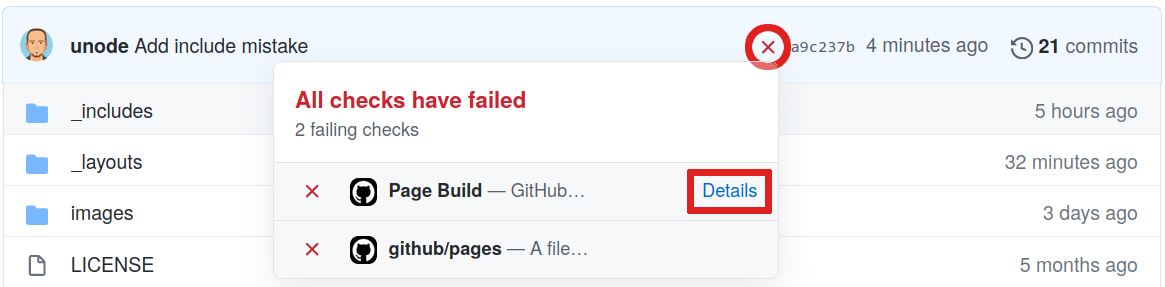
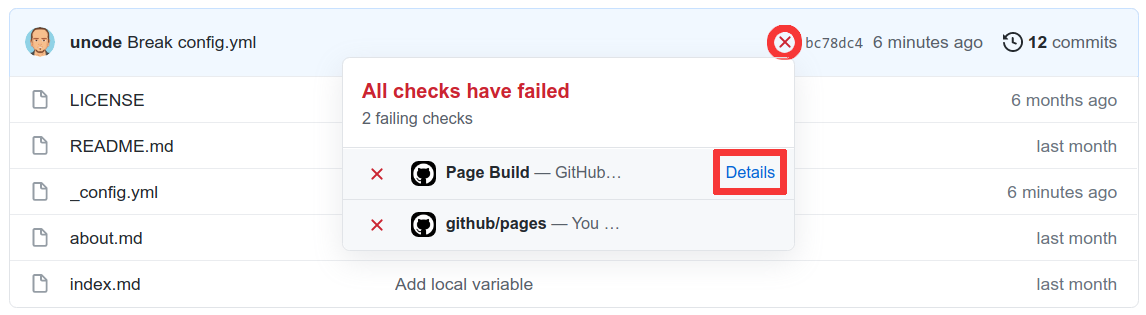
Relocate 'When things go wrong' and make it fail with a _config typo

diff --git a/episodes/starting-jekyll.md b/episodes/starting-jekyll.md
@@ -165,6 +165,84 @@ Let's make use of global parameters in our pages.
 > a single place (even if you only use them once). In combination with Jekyll layouts/templates (to be covered in the next episode) they are a great way of creating reusable markup snippets that can be repeated on multiple or even on every page of your website. Reuse helps you reduce the amount of code you have to write.
 {: .callout}
 
+## When things go wrong
+
+So far we have seen how to successfully use Jekyll to produce a website.
+There are however some situations where Jekyll may fail to do so
+either due to a typo or missing information.
+
+> ## Exercise: Troubleshooting Jekyll
+>
+> This exercise will help you recognise how common mistakes look like
+> when working with these elements of a Jekyll website.
+>
+> Edit your `_config.yml` file and omit a closing quote `"` in one of the variables.
+>
+> > ## Solution
+> >
+> > For instance, a missing closing quote `"` in the `twitter` variable.
+> > ~~~
+> > title: "Building Websites in GitHub"
+> > description: "This research project develops training materials for reseachers wanting to learn to build project
+> > websites in GitHub with GitHub Pages."
+> > email: "team@carpentries.org"
+> > twitter: "https://twitter.com/thecarpentries
+> > ~~~
+> > {: .language-yaml}
+> >
+> > If you navigate your GitHub repository you would be able to see something break in `about.md` where we use `{% raw %}{{ site.twitter }}{% endraw %}` however,
+> > contrary to what we saw before with invalid Markdown,
+> > Jekyll will refuse to build the website and produce an error message.
+> >
+> > We will see after this where to find the error message and identify what caused them.
+> {: .solution }
+{: .challenge }
+
+If you were keeping an eye on the GitHub repository page until now, you may have noticed 
+a yellow circle visible when the website is still being processed and a green check mark (✓) when successful.
+You may have also noticed that in the same location there is now a red cross next to the commit message (❌).
+
+This indicates that something went wrong with our Jekyll build process.
+
+![Jekyll pending/successful build](../fig/includes_fail_pending_successful.png)
+
+You may also find an email from GitHub in your inbox with details about the error.
+But lets look at our repository again.
+If we click the red cross next to the commit message (❌) a little pop-up will appear with additional information.
+
+![Jekyll failed to build](../fig/includes_build_error.png)
+
+Visiting the page behind the **Details** link will give us the information we were missing.
+
+![Jekyll failed to build detail](../fig/includes_build_error_detail.png)
+
+From this page we can see that what caused the failure affected line 5 of the `_config.yml` file.
+This matches the line where we deleted the `"`.
+Since this typo prevents Jekyll from building the page, the process cannot continue.
+
+> ## Failure will not remove your website
+>
+> Given the failure you may be wondering what happened to the website?
+> If you visit the address you will find that the website is still be available.
+>
+> GitHub will keep your previous version online until the error is fixed
+> and a new build is completed successfully.
+{: .callout }
+
+Lets go ahead and fix your intentional typo and re-add the missing `"`:
+
+~~~
+title: "Building Websites in GitHub"
+description: "This research project develops training materials for reseachers wanting to learn to build project
+websites in GitHub with GitHub Pages."
+email: "team@carpentries.org"
+twitter: "https://twitter.com/thecarpentries"
+~~~
+{: .language-yaml}
+
+After a few seconds we should see a green checkmark again and our website will be updated.
+
+
 ## Local Parameters
 
 In addition to global (site-wide) parameters available via the `site` global variable, Jekyll makes _local_ (page-specific) information available to you via the `page` variable.

diff --git a/episodes/includes.md b/episodes/includes.md
@@ -288,69 +288,5 @@ We will see another example of this shortly.
 > of all the relevant links across your site.
 {: .callout }
 
-## When things go wrong
-
-So far we have seen how to successfully use Jekyll to produce a website.
-There are however some situations where Jekyll may fail to do so
-either due to a typo or missing information.
-
-> ## Exercise: Troubleshooting Revisited I
->
-> This exercise will help you recognise how common mistakes look like
-> when working with these elements of a Jekyll website.
->
-> Edit your `index.md` file and `include` the (non existing) file `mistake.md`.
->
-> > ## Solution
-> >
-> > ~~~
-> > {% raw %}{% include mistake.md %}{% endraw %}
-> > ~~~
-> > {: .language-markdown }
-> >
-> > If you navigate your GitHub repository you will be able to preview the change to `index.md` but,
-> > contrary to what we saw before with invalid Markdown,
-> > Jekyll will refuse to build the website and produce an error message.
-> >
-> > We will see after this where to find the error message and identify what caused them.
-> {: .solution }
-{: .challenge }
-
-If you were keeping an eye on the GitHub repository page until now, you may have noticed 
-a yellow circle visible when the website is still being processed and a green check mark (✓) when successful.
-You may have also noticed that in the same location there is now a red cross next to the commit message (❌).
-
-This indicates that something went wrong with our Jekyll build process.
-
-![Jekyll pending/successful build](../fig/includes_fail_pending_successful.png)
-
-You may also find an email from GitHub in your inbox with details about the error.
-But lets look at our repository again.
-If we click the red cross next to the commit message (❌) a little pop-up will appear with additional information.
-
-![Jekyll failed to build](../fig/includes_build_error.png)
-
-Visiting the page behind the **Details** link will give us the information we were missing.
-
-![Jekyll failed to build detail](../fig/includes_build_error_detail.png)
-
-From this page we can see that what caused the failure was the `{% raw %}{% include mistake.md %}{% endraw %}` that we added to `index.md`.
-Since Jekyll cannot find `mistake.md` the process cannot continue.
-
-> ## Failure will not remove your website
->
-> Given the failure you may be wondering what happened to the website?
-> If you visit the address you will find that the website is still be available.
->
-> GitHub will keep your previous version online until the error is fixed
-> and a new build is completed successfully.
-{: .callout }
-
-To fix this error we could create the file `_includes/mistake.md`
-or modify the `index.md` to no longer include this file,
-
-Lets go ahead and delete `{% raw %}{% include mistake.md %}{% endraw %}` from `index.md`.
-After a few seconds we should see a green checkmark again and our website will be updated.
-
 
 {% include links.md %}
